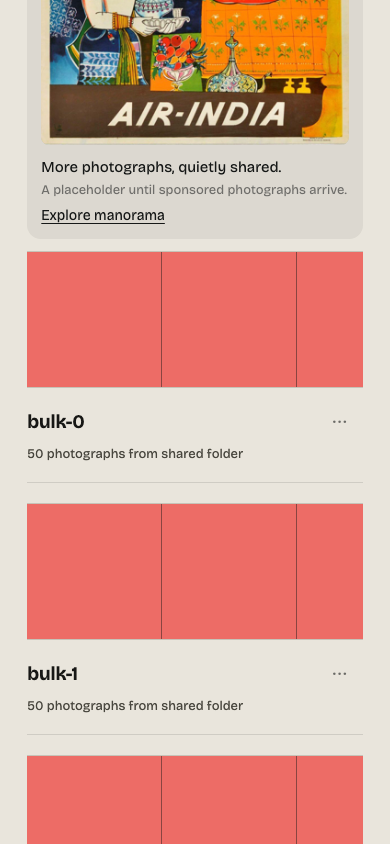
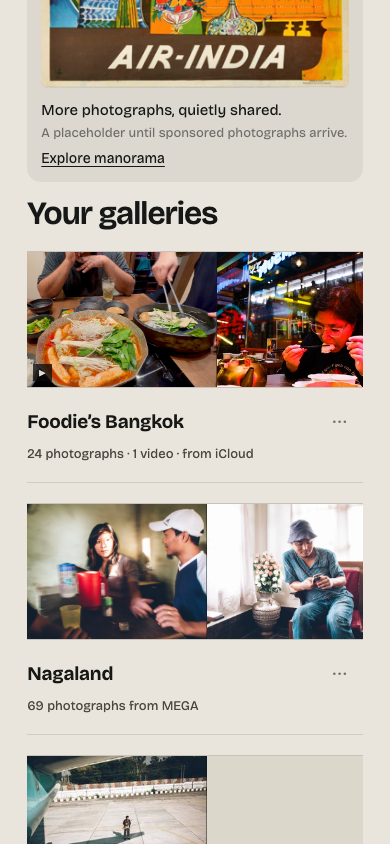
feat(admin): named Library sections, tier names, bottom-anchored ad
The tier line names the plans the way the product does — "Visionary"
and "Free User" — and breaks before the hosted counts so the sentence
scans as two facts. The gallery column splits into named sections at
the "Library" pitch: "Your galleries" over the strips and "More
galleries" (or "Temporary galleries" on Free) over the cover cards.
The rail claims the viewport height so the sponsored card anchors to
the bottom of the page; a rail that outgrows it scrolls internally.

Generated with [Devin](https://devin.ai)

diff --git a/app/islands/Admin.tsx b/app/islands/Admin.tsx
@@ -780,9 +780,9 @@ export default function Admin({ galleries: initialGalleries, owner, ownerName, p
           </div>
         </div>
         <p class="admin-library-sub">{tier === 'pro' ? (
-          <>You are a manorama <strong>Visionary</strong> user hosting <strong>{retainedCount}</strong> of {PAID_RETAINED_LIMIT} permanent galleries.</>
+          <>You are a manorama <strong>Visionary</strong> hosting<br /><strong>{retainedCount}</strong> of {PAID_RETAINED_LIMIT} permanent galleries.</>
         ) : (
-          <>You are a manorama <strong>Free</strong> user hosting <strong>{retainedCount}</strong> of {FREE_RETAINED_LIMIT} permanent galleries{temporaryCount ? <> and <strong>{temporaryCount}</strong> temporary {temporaryCount === 1 ? 'gallery' : 'galleries'}</> : null}. <a class="admin-upgrade-link" href={upgradeHref}>Upgrade to Visionary?</a></>
+          <>You are a manorama <strong>Free User</strong> hosting<br /><strong>{retainedCount}</strong> of {FREE_RETAINED_LIMIT} permanent galleries{temporaryCount ? <> and <strong>{temporaryCount}</strong> temporary {temporaryCount === 1 ? 'gallery' : 'galleries'}</> : null}. <a class="admin-upgrade-link" href={upgradeHref}>Upgrade to Visionary?</a></>
         )}</p>
         {adsShow && accountAd ? (
           /* The sponsored panel sits between the Library heading and the
@@ -811,7 +811,9 @@ export default function Admin({ galleries: initialGalleries, owner, ownerName, p
         ) : null}
       </aside>
       <section class="gallery-list" aria-labelledby="galleries-heading">
-        {stripGalleries.length ? <ul class="lib-list">{stripGalleries.map((gallery) => {
+        {stripGalleries.length ? <section aria-labelledby="lib-strips-title">
+          <h2 id="lib-strips-title" class="lib-section-title">Your galleries</h2>
+          <ul class="lib-list">{stripGalleries.map((gallery) => {
           const title = gallery.title || gallery.slug
           const locked = isLocked(gallery)
           return <li key={gallery.slug}><article class="lib-card" data-gallery-card={gallery.slug} data-retention={gallery.retention}>
@@ -868,10 +870,10 @@ export default function Admin({ galleries: initialGalleries, owner, ownerName, p
               <button type="button" disabled={busy} onClick={() => setRemoveSlug(null)}>Cancel</button>
             </div> : null}
           </article></li>
-        })}</ul> : null}
+        })}</ul></section> : null}
         {compactGalleries.length ? (
           <section aria-labelledby="lib-compact-title">
-            <h3 id="lib-compact-title" class="lib-compact-title">{tier === 'pro' ? 'More galleries' : 'Temporary galleries'}</h3>
+            <h2 id="lib-compact-title" class="lib-section-title lib-compact-title">{tier === 'pro' ? 'More galleries' : 'Temporary galleries'}</h2>
             {/* A masonry feed of cover cards — the cover keeps its own
                 ratio (nothing is ever cropped), so card heights vary the
                 way a pin feed does. */}

diff --git a/app/styles.css b/app/styles.css
@@ -1807,14 +1807,18 @@ body:has(.ops-page) { overflow: auto; overflow-x: clip; background: #111312; }
     position: sticky;
     top: 16px;
     min-width: 0;
-    /* A rail taller than the viewport would pin at the top with its
-       bottom — usually the sponsored card's CTA — unreachable. Cap it
-       and let the column scroll inside itself instead. */
-    max-height: calc(100dvh - 32px);
+    display: flex;
+    flex-direction: column;
+    /* The rail claims the full viewport height so the sponsored card
+       anchors to the bottom of the page; a column that outgrows it
+       scrolls inside itself instead of pinning an unreachable bottom. */
+    height: calc(100dvh - 32px);
     overflow-y: auto;
     scrollbar-width: none;
   }
+  .admin-page--selector .admin-rail > * { flex-shrink: 0; }
   .admin-page--selector .admin-rail::-webkit-scrollbar { display: none; }
+  .admin-page--selector .admin-rail .account-ad { margin-top: auto; }
 }
 .admin-rail { min-width: 0; }
 .admin-rail .admin-library-heading { flex-direction: column; align-items: stretch; gap: 14px; }
@@ -2172,7 +2176,11 @@ button.lib-card-title {
 /* Compact galleries fall into a masonry feed under a small section
    label — one cover card each, the cover kept at its own ratio so card
    heights vary. The lean payload ships only the cover item for these. */
-.lib-compact-title { margin: 28px 0 0; padding: 0 0 10px; font-size: var(--m-fs-small); font-weight: 600; color: var(--m-secondary); }
+/* The two Library sections announce themselves at the same pitch as the
+   page itself — "Your galleries" and "More galleries" are headings in
+   the "Library" voice, not captions. */
+.lib-section-title { margin: 0 0 18px; color: rgb(var(--ink)); font-size: 32px; font-weight: 600; letter-spacing: -.03em; }
+.gallery-list section + section { margin-top: clamp(44px, 6vw, 72px); }
 .lib-compact-grid { list-style: none; margin: 0; padding: 0; columns: 2; column-gap: 14px; }
 /* Three across fills the card column — a fourth column made the covers
    read as thumbnails instead of galleries. */

diff --git a/app/admin-retention.render.test.ts b/app/admin-retention.render.test.ts
@@ -144,7 +144,8 @@ describe('the dashboard renders retention state', () => {
 
   test('the Library sub line states the plan, the hosted counts, and the upgrade path', async () => {
     const html = await renderDashboard(seedPipelineOwner)
-    expect(html).toContain('You are a manorama <strong>Free</strong> user hosting <strong>3</strong> of 3 permanent galleries')
+    expect(html).toContain('You are a manorama <strong>Free User</strong> hosting')
+    expect(html).toMatch(/hosting<br ?\/?><strong>3<\/strong> of 3 permanent galleries/)
     expect(html).toContain('and <strong>1</strong> temporary gallery.')
     expect(html).toContain('Upgrade to Visionary?')
   })
